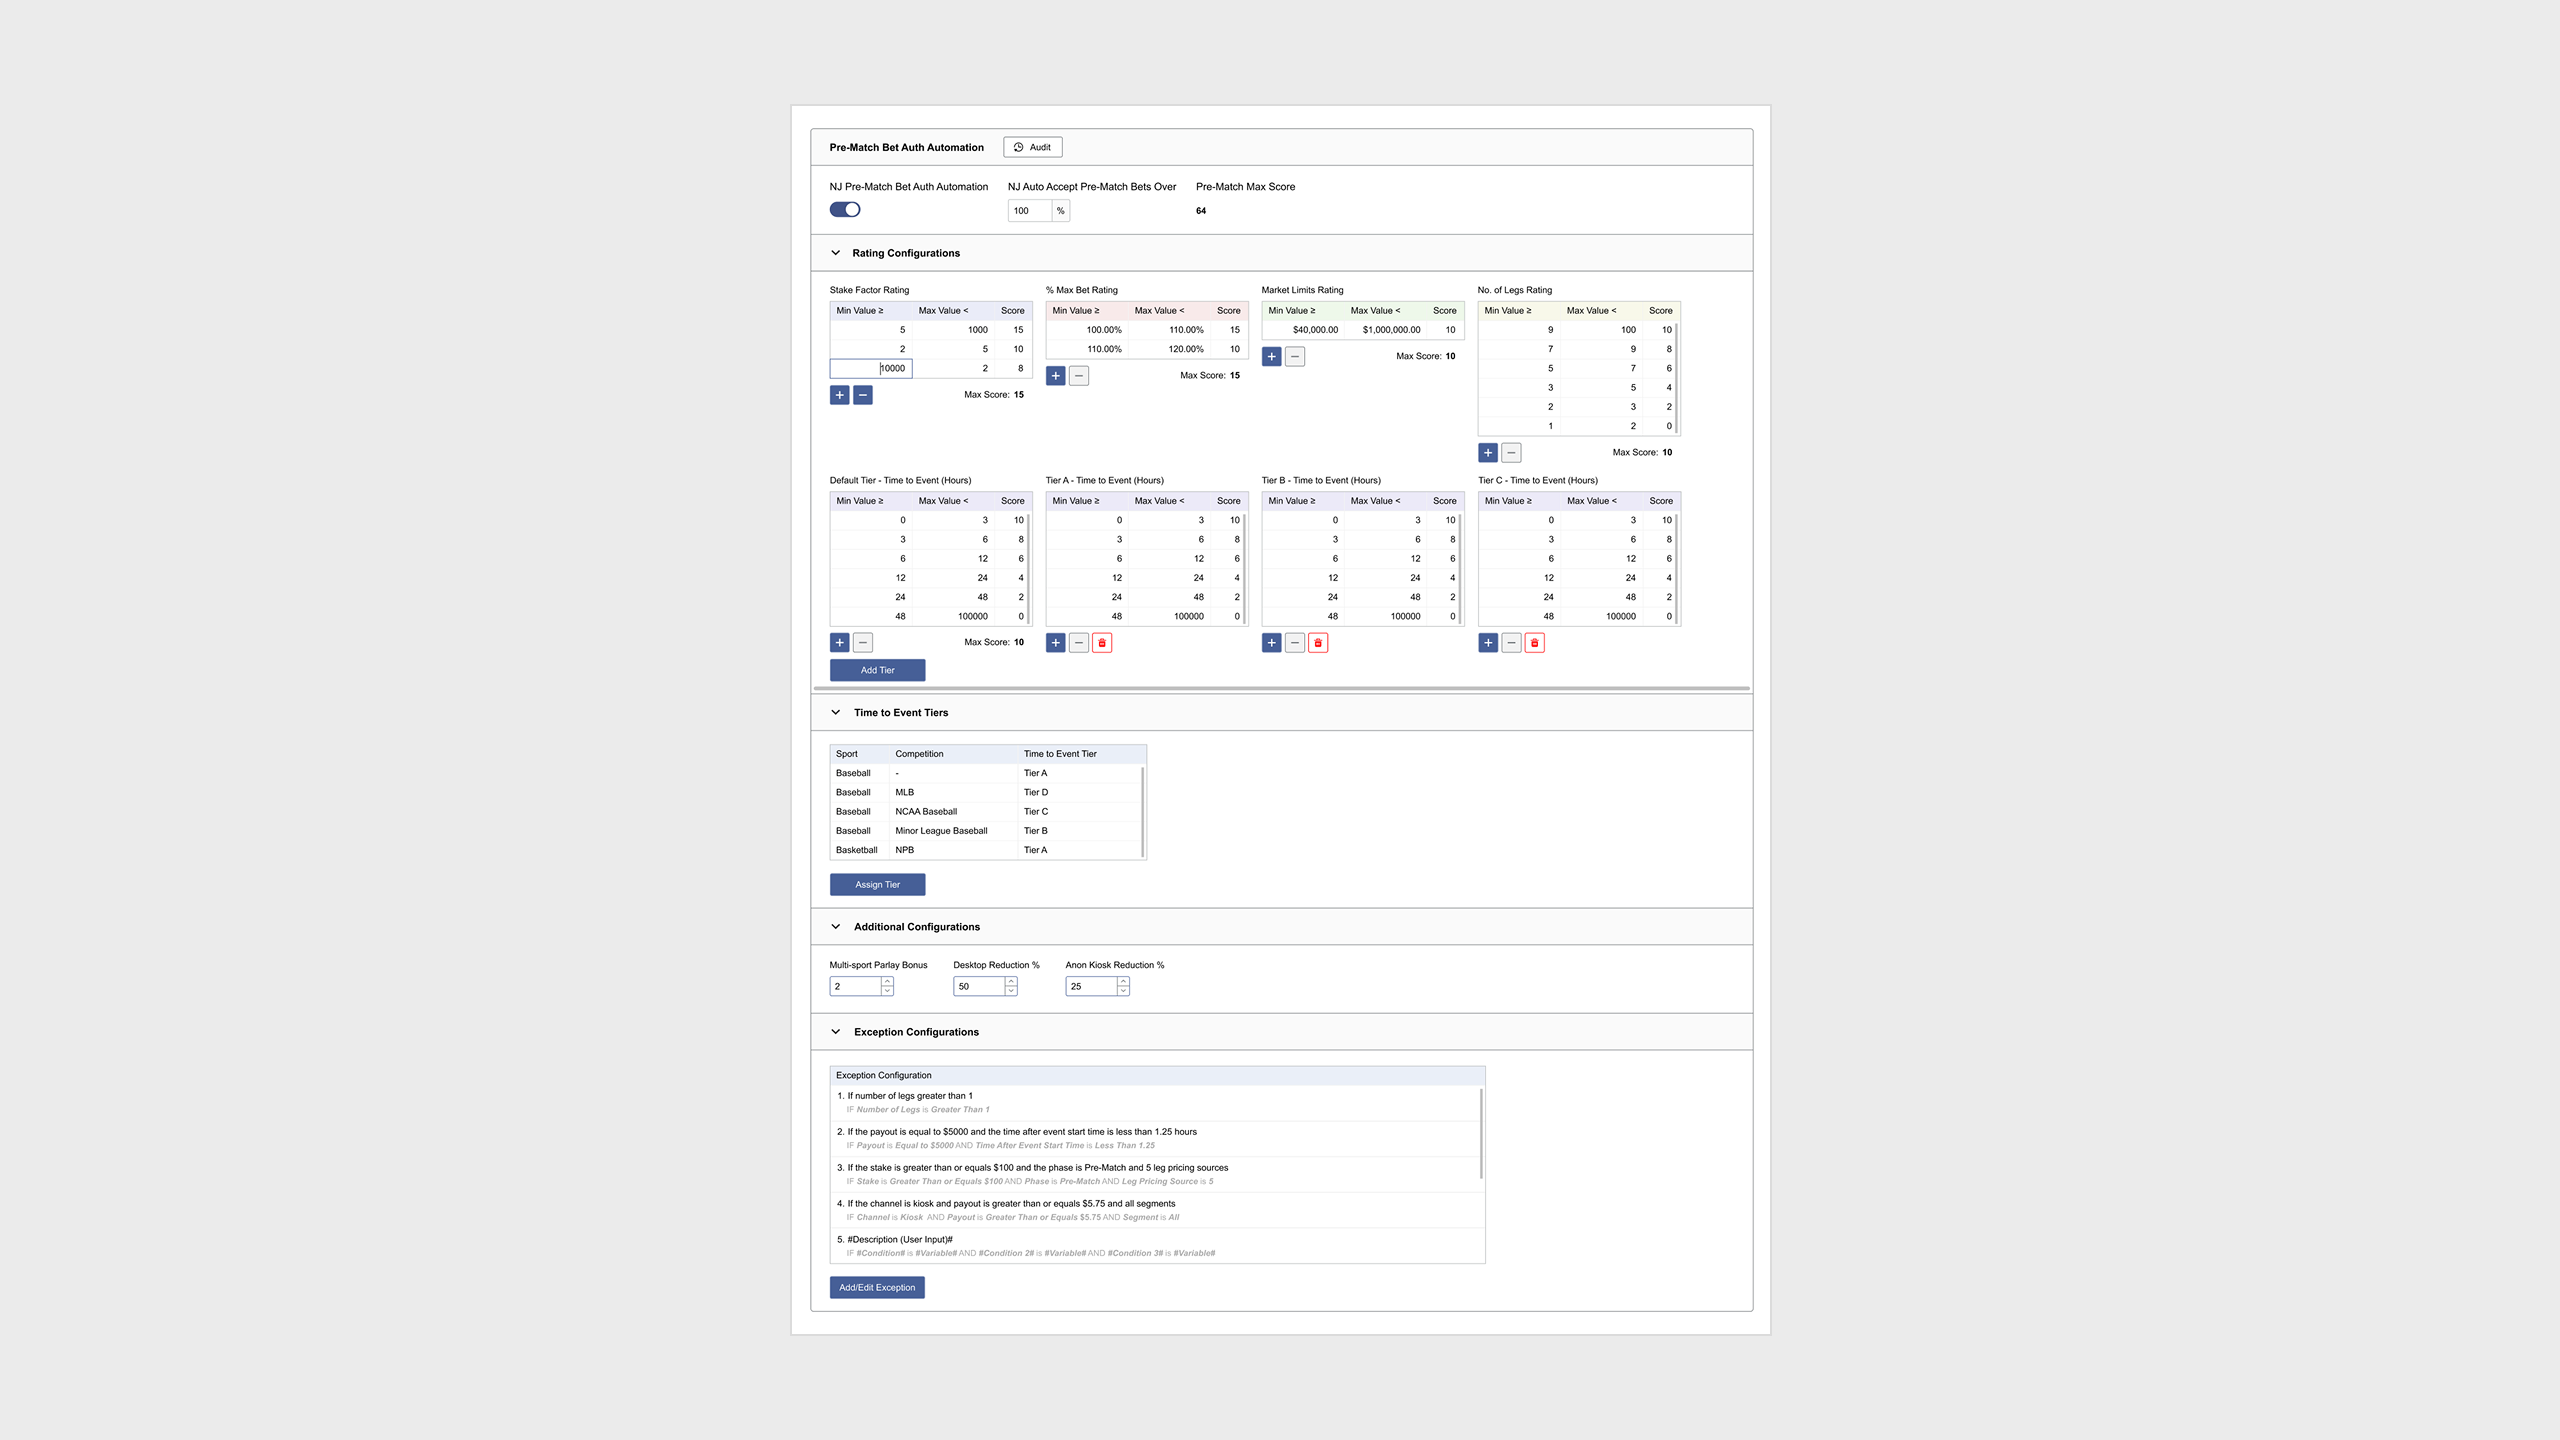
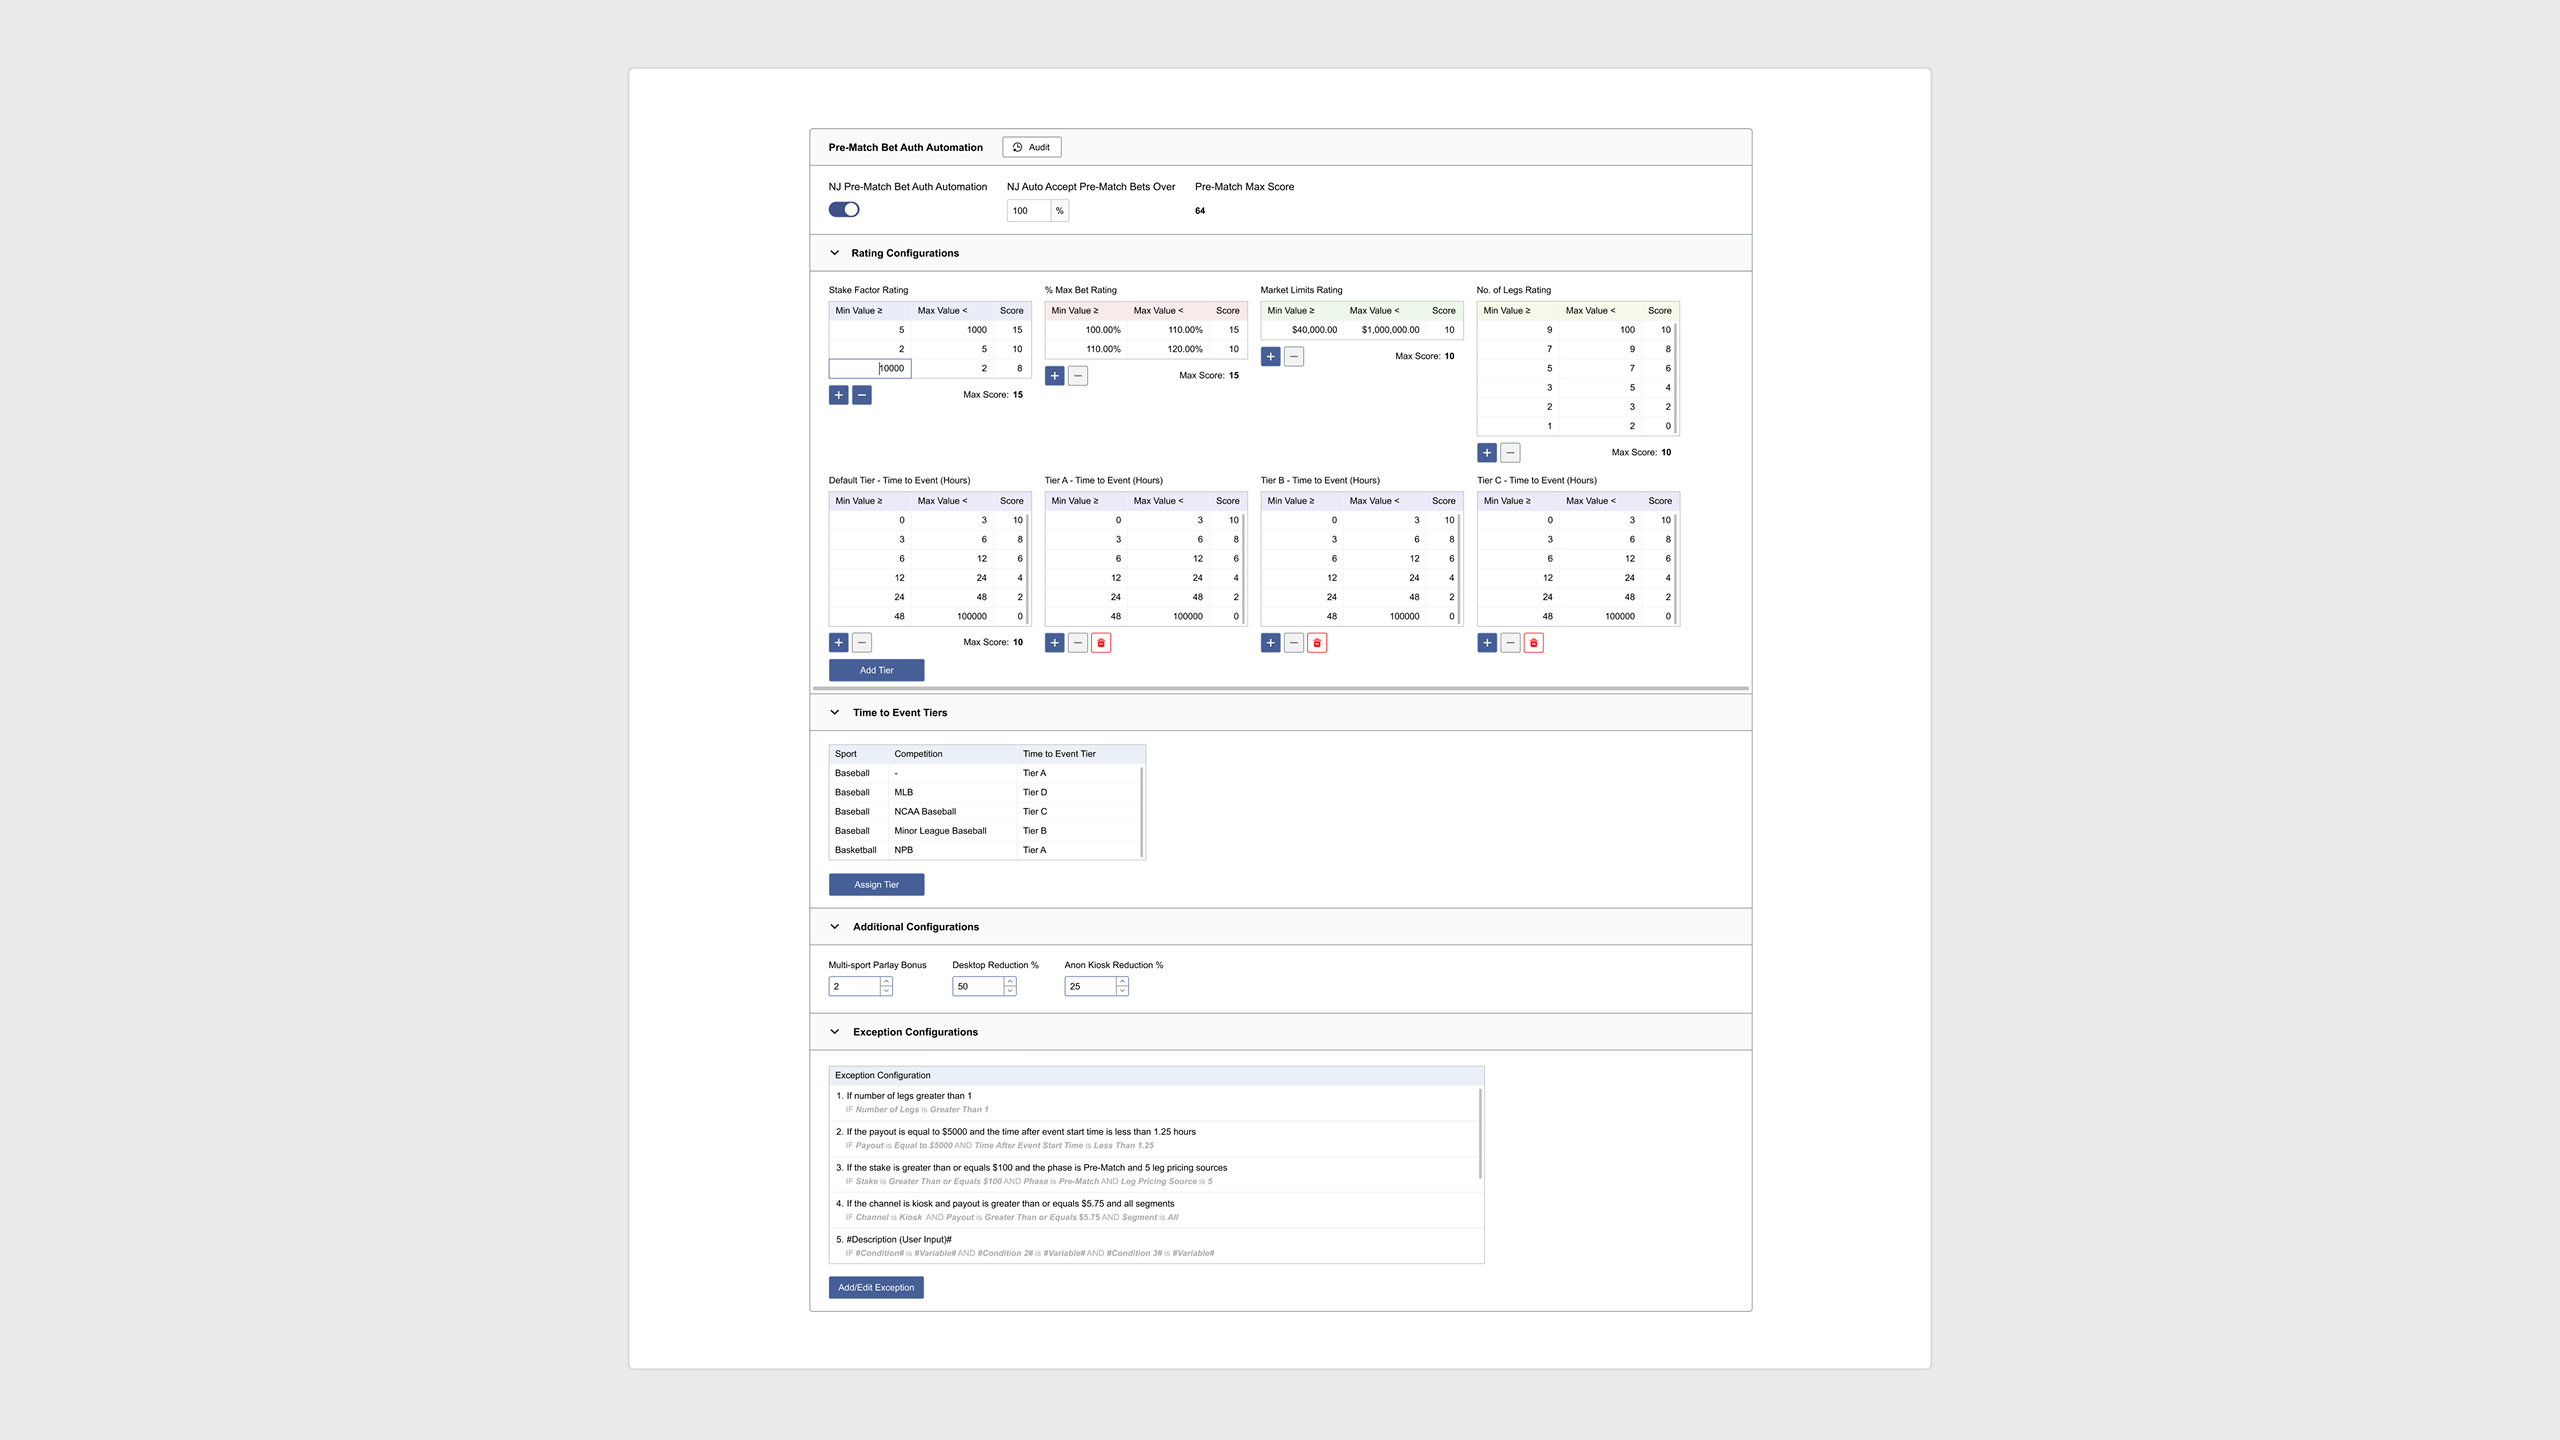
Refresh portfolio gallery assets
Updated the Caesars and SteelSeries case study imagery and added new gallery screenshots. Also revised the project captions in index.html to reflect the latest work and presentation structure.

diff --git a/index.html b/index.html
@@ -130,7 +130,37 @@
         <div class="case-img-container">
           <img class="case-img" src="images/caesars-35.png" alt="image" loading="lazy" decoding="async">
           <div class="case-caption-container">
-            <p class="case-caption">Internal&nbsp;ML&nbsp;Dashboard</p>
+            <p class="case-caption">ML&nbsp;Dashboard</p>
+          </div>
+        </div>
+        <div class="case-img-container">
+          <img class="case-img" src="images/caesars-36.png" alt="image" loading="lazy" decoding="async">
+          <div class="case-caption-container">
+            <p class="case-caption">Financial&nbsp;Liabilities&nbsp;Widget</p>
+          </div>
+        </div>
+        <div class="case-img-container">
+          <img class="case-img" src="images/caesars-37.png" alt="image" loading="lazy" decoding="async">
+          <div class="case-caption-container">
+            <p class="case-caption">Table&nbsp;Design</p>
+          </div>
+        </div>
+        <div class="case-img-container">
+          <img class="case-img" src="images/caesars-38.png" alt="image" loading="lazy" decoding="async">
+          <div class="case-caption-container">
+            <p class="case-caption">Design&nbsp;Systems,&nbsp;Rapid&nbsp;Prototyping</p>
+          </div>
+        </div>
+        <div class="case-img-container">
+          <img class="case-img" src="images/caesars-39.png" alt="image" loading="lazy" decoding="async">
+          <div class="case-caption-container">
+            <p class="case-caption">Competitive&nbsp;Research,&nbsp;UI&nbsp;Audit</p>
+          </div>
+        </div>
+        <div class="case-img-container">
+          <img class="case-img" src="images/caesars-40.png" alt="image" loading="lazy" decoding="async">
+          <div class="case-caption-container">
+            <p class="case-caption">Collaborative&nbsp;User&nbsp;Flows,&nbsp;Wireframing</p>
           </div>
         </div>
       <br><br>
@@ -369,21 +399,27 @@
         <div class="case-img-container">
           <img class="case-img" src="images/steelseries-4.png" alt="image" loading="lazy" decoding="async">
           <div class="case-caption-container">
-            <p class="case-caption">Platform&nbsp;UX&nbsp;and&nbsp;Design</p>
-          </div>
-        </div>
-        <div class="case-img-container">
-          <img class="case-img" src="images/steelseries-3.png" alt="image" loading="lazy" decoding="async">
-          <div class="case-caption-container">
-            <p class="case-caption">System&nbsp;Design</p>
+            <p class="case-caption">Platform&nbsp;Design</p>
           </div>
         </div>
         <div class="case-img-container">
           <img class="case-img" src="images/steelseries-17.png" alt="image" loading="lazy" decoding="async">
           <div class="case-caption-container">
-            <p class="case-caption">Hardware&nbsp;Management</p>
+            <p class="case-caption">Hardware&nbsp;Manager</p>
           </div>
         </div>
+        <div class="case-img-container">
+          <img class="case-img" src="images/steelseries-19.png" alt="image" loading="lazy" decoding="async">
+          <div class="case-caption-container">
+            <p class="case-caption">Promotion&nbsp;Homepage</p>
+          </div>
+        </div>
+        <div class="case-img-container">
+          <img class="case-img" src="images/steelseries-20.png" alt="image" loading="lazy" decoding="async">
+          <div class="case-caption-container">
+            <p class="case-caption">Promotion&nbsp;Homepage</p>
+          </div>
+        </div>  
       <br><br>
       <div class="text-container">
         <p>
@@ -424,31 +460,7 @@
         <span class="badge-blue">Advertising</span>
         <span class="badge-blue">Community Engagement</span>
       </div>
-      <br><br>
-        <div class="case-img-container">
-          <img class="case-img" src="images/steelseries-10.png" alt="image" loading="lazy" decoding="async">
-          <div class="case-caption-container">
-            <p class="case-caption">Before&nbsp;|&nbsp;After&nbsp;-&nbsp;Homepage</p>
-          </div>
-        </div>
-        <div class="case-img-container">
-          <img class="case-img" src="images/steelseries-9.png" alt="image" loading="lazy" decoding="async">
-          <div class="case-caption-container">
-            <p class="case-caption">Before&nbsp;|&nbsp;After&nbsp;-&nbsp;Device&nbsp;Manager</p>
-          </div>
-        </div>
-        <div class="case-img-container">
-          <img class="case-img" src="images/steelseries-15.png" alt="image" loading="lazy" decoding="async">
-          <div class="case-caption-container">
-            <p class="case-caption">Establishing&nbsp;and&nbsp;Managing&nbsp;Design&nbsp;Systems</p>
-          </div>
-        </div>
-        <div class="case-img-container">
-          <img class="case-img" src="images/steelseries-16.png" alt="image" loading="lazy" decoding="async">
-          <div class="case-caption-container">
-            <p class="case-caption">Sketch&nbsp;to&nbsp;Interactive&nbsp;Prototype</p>
-          </div>
-        </div>
+      <br><br>      
         <div class="case-img-container">
           <img class="case-img" src="images/steelseries-7.png" alt="image" loading="lazy" decoding="async">
           <div class="case-caption-container">
@@ -458,7 +470,7 @@
         <div class="case-img-container">
           <img class="case-img" src="images/steelseries-14.png" alt="image" loading="lazy" decoding="async">
           <div class="case-caption-container">
-            <p class="case-caption">Feedback,&nbsp;Reporting,&nbsp;Surveys</p>
+            <p class="case-caption">In-App&nbsp;Feedback,&nbsp;Surveys</p>
           </div>
         </div>
         <div class="case-img-container">
@@ -476,13 +488,37 @@
         <div class="case-img-container">
           <img class="case-img" src="images/steelseries-12.png" alt="image" loading="lazy" decoding="async">
           <div class="case-caption-container">
-            <p class="case-caption">Analytics,&nbsp;User&nbsp;Research</p>
+            <p class="case-caption">Surveys,%nbsp;Analytics,&nbsp;User&nbsp;Research</p>
           </div>
         </div>
         <div class="case-img-container">
           <img class="case-img" src="images/steelseries-8.png" alt="image" loading="lazy" decoding="async">
           <div class="case-caption-container">
             <p class="case-caption">Team&nbsp;Planning,&nbsp;Product&nbsp;Roadmapping</p>
+          </div>
+        </div>
+        <div class="case-img-container">
+          <img class="case-img" src="images/steelseries-15.png" alt="image" loading="lazy" decoding="async">
+          <div class="case-caption-container">
+            <p class="case-caption">Establishing&nbsp;and&nbsp;Managing&nbsp;Design&nbsp;Systems</p>
+          </div>
+        </div>
+        <div class="case-img-container">
+          <img class="case-img" src="images/steelseries-16.png" alt="image" loading="lazy" decoding="async">
+          <div class="case-caption-container">
+            <p class="case-caption">Sketch&nbsp;to&nbsp;Interactive&nbsp;Prototype</p>
+          </div>
+        </div>
+        <div class="case-img-container">
+          <img class="case-img" src="images/steelseries-9.png" alt="image" loading="lazy" decoding="async">
+          <div class="case-caption-container">
+            <p class="case-caption">Before&nbsp;|&nbsp;After&nbsp;-&nbsp;Homepage</p>
+          </div>
+        </div>
+        <div class="case-img-container">
+          <img class="case-img" src="images/steelseries-10.png" alt="image" loading="lazy" decoding="async">
+          <div class="case-caption-container">
+            <p class="case-caption">Before&nbsp;|&nbsp;After&nbsp;-&nbsp;Device&nbsp;Manager</p>
           </div>
         </div>
       <br>
